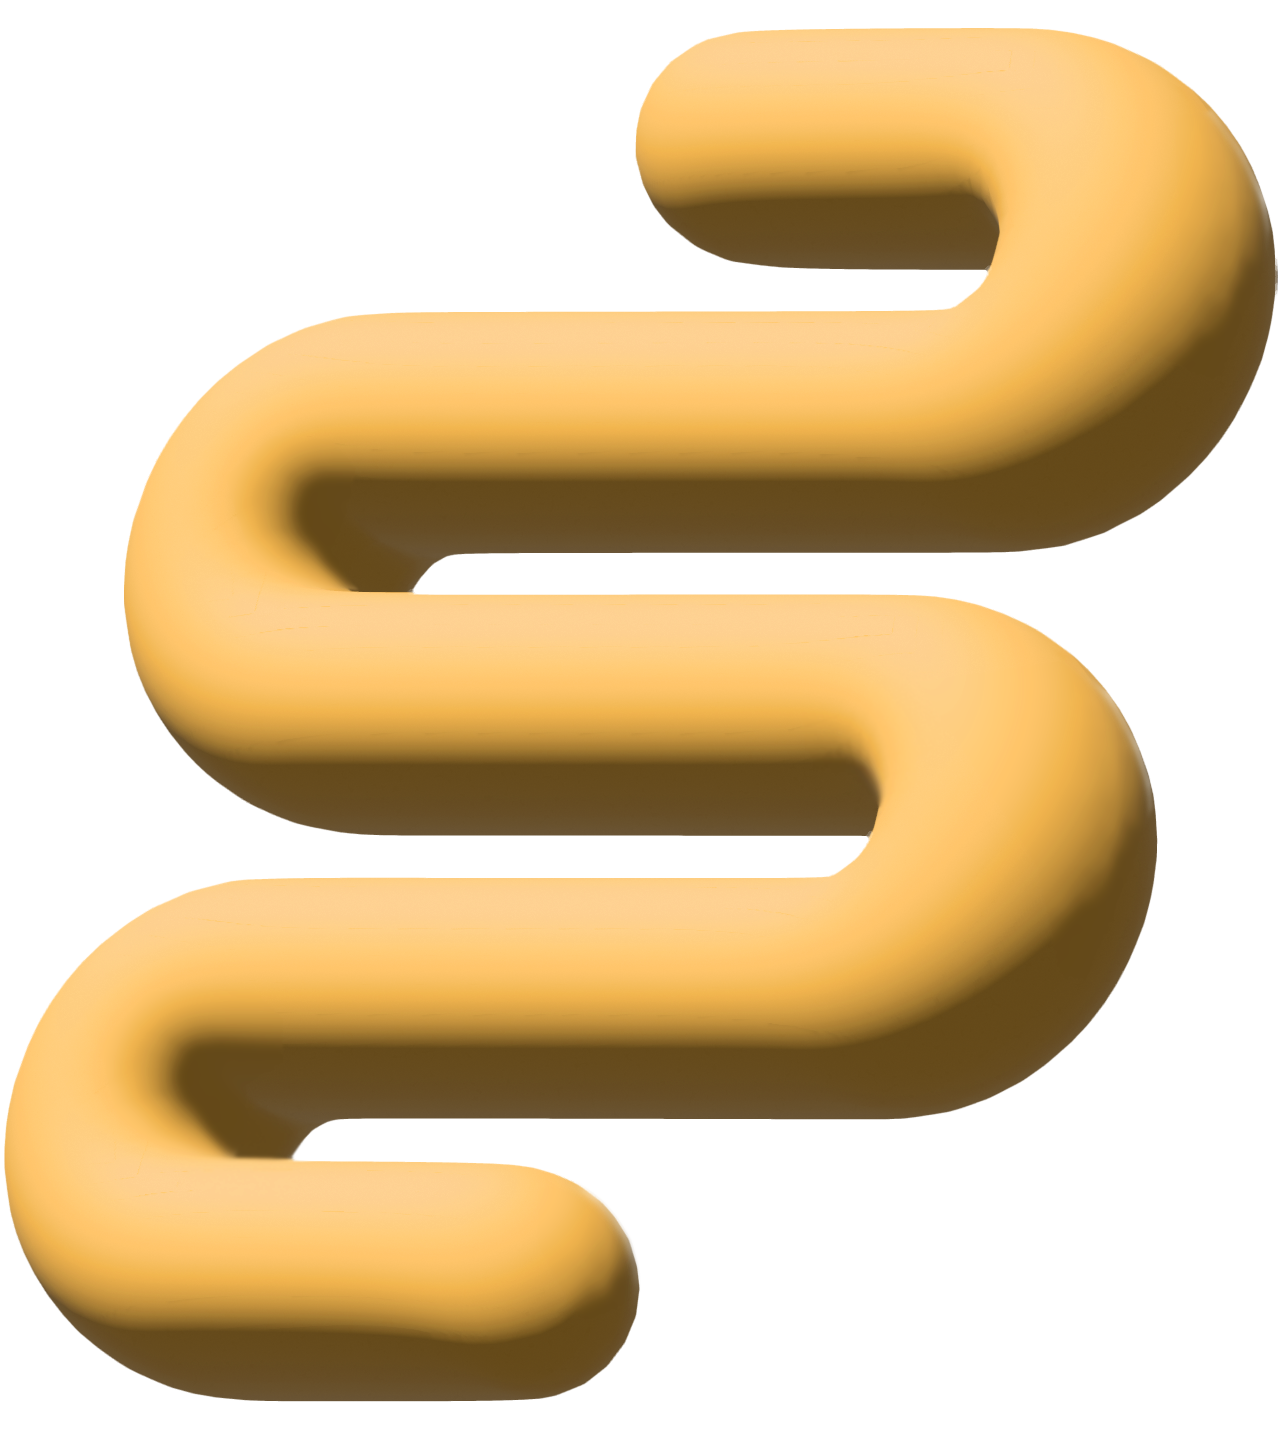
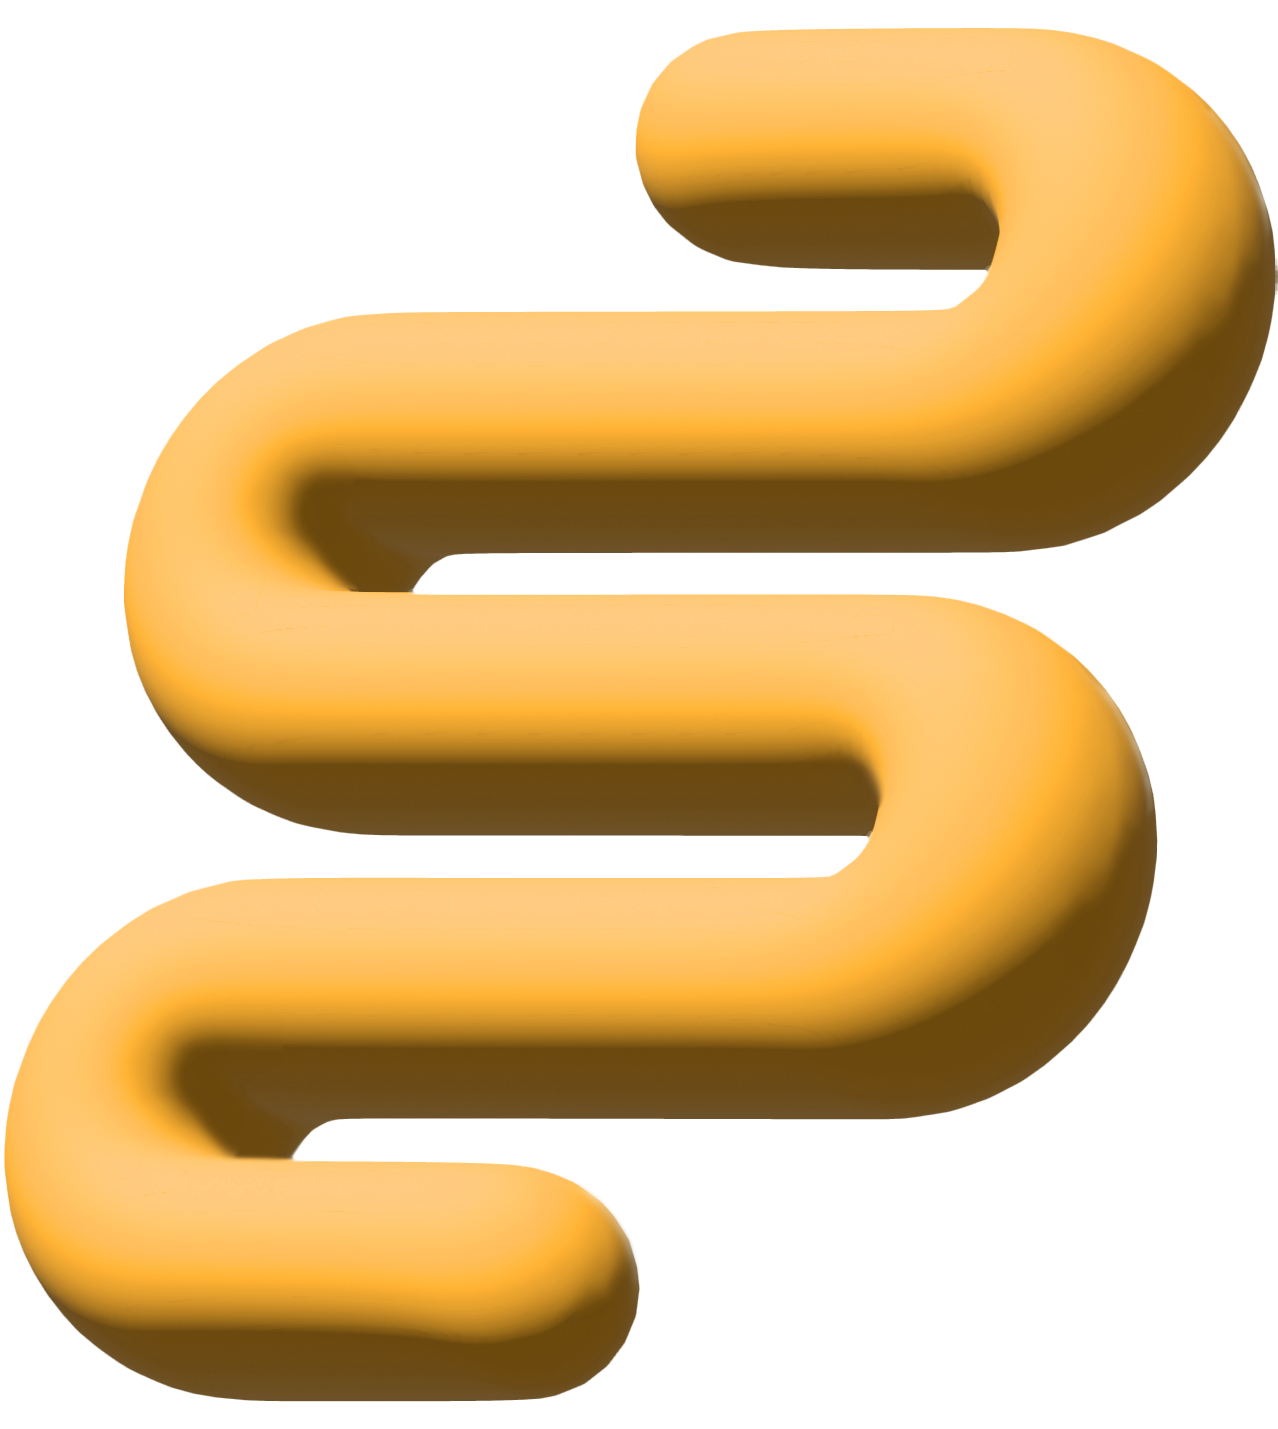
initial 3d image placement for results

diff --git a/src/pages/Results.js b/src/pages/Results.js
@@ -1,6 +1,7 @@
 import React, { useState, useRef, useEffect } from 'react'
 import AudioPlayer from 'react-h5-audio-player'
 import Marquee from 'react-marquee-slider'
+import ResultsBackground from '../components/ResultsBackground'
 import { gsap } from 'gsap'
 import '../styles/AudioPlayer.css'
 import { useNavigate } from 'react-router-dom'
@@ -9,6 +10,7 @@ function Results({ recommendations, setRecommendations }) {
   const [currentPlayingIndex, setCurrentPlayingIndex] = useState(null)
   const playerRefs = useRef([])
   const resultRef = useRef([])
+  const backgroundRef = useRef(null)
   const navigate = useNavigate()
 
   const handlePlay = (index) => {
@@ -37,6 +39,8 @@ function Results({ recommendations, setRecommendations }) {
   }, [navigate, recommendations])
 
   return (
+    <div>
+      <ResultsBackground ref={backgroundRef}/>
     <div ref={resultRef} className="pt-20 lg:px-20 2xl:px-48">
       <h1 className="font-comba font-extra-bold text-5xl lg:text-8xl mt-8 mb-16">
         HERE <br /> YOU GO!
@@ -85,6 +89,7 @@ function Results({ recommendations, setRecommendations }) {
           )}
         </div>
       ))}
+    </div>
     </div>
   )
 }

diff --git a/src/components/ResultsBackground.js b/src/components/ResultsBackground.js
@@ -1,0 +1,28 @@
+import React, { forwardRef } from 'react';
+import pop1 from '../assets/resultsbackground/rippl_pop_1.png';
+import pop2 from '../assets/resultsbackground/rippl_pop_2.png';
+import pop3 from '../assets/resultsbackground/rippl_pop_3.png';
+
+const ResultsBackground = forwardRef((props, ref) => {
+  return (
+    <div ref={ref}>
+      <img
+        alt="funny pop"
+        src={pop1}
+        className="fixed h-[250px] md:h-[300px] top-[140px] lg:top-[300px] left-[-150px] md:left-[-100px xl:left-[100px]"
+      />
+      <img
+        alt="funny pop"
+        src={pop2}
+        className="fixed h-0 lg:h-[200px] xl:h-[260px] top-[150px] right-[150px] 2xl:right-[300px]"
+      />
+      <img
+        alt="funny"
+        src={pop3}
+        className="fixed h-[350px] md:h-[500px] top-[620px] right-[-200px] lg:right-[-100px] 2xl:right-[50px] "
+      />
+    </div>
+  );
+});
+
+export default ResultsBackground;

diff --git a/src/styles/PopularityBar.css b/src/styles/PopularityBar.css
@@ -29,7 +29,7 @@
 
 /* The slider handle (use -webkit- (Chrome, Opera, Safari, Edge) and -moz- (Firefox) to override default look) */
 .slider::-webkit-slider-thumb {
-  background-color: #F4B74A;
+  background-color: #f2a829;
   width: 26px; /* Set a specific slider handle width */
   height: 26px; /* Slider handle height */
   cursor: pointer; /* Cursor on hover */
@@ -39,7 +39,7 @@
 }
 
 .slider::-moz-range-thumb {
-  background-color: #F4B74A;
+  background-color: #f2a829;
   width: 26px; /* Set a specific slider handle width */
   height: 26px; /* Slider handle height */
   cursor: pointer; /* Cursor on hover */

diff --git a/src/App.css b/src/App.css
@@ -169,7 +169,7 @@ input::placeholder {
   width: 26px !important;
   border: black solid 2px !important;
   transform: translateY(-7px) translateX(-5px) !important;
-  background-color: #F4B74A !important;
+  background-color: #f2a829 !important;
   opacity: 1 !important;
 }
 
@@ -181,7 +181,7 @@ input::placeholder {
   height: 26px !important;
   width: 26px !important;
   border: black solid 2px !important;
-  background-color: #F4B74A !important;
+  background-color: #f2a829 !important;
   opacity: 1 !important;
   box-shadow: none !important;
 }

diff --git a/src/App.js b/src/App.js
@@ -25,7 +25,7 @@ function App() {
       bgColor = "#80DDCB";
       break;
     case "/input":
-      bgColor = "#F4B74A";
+      bgColor = "#f2a829";
       break;
     case "/results":
       bgColor = "#5EC169";
